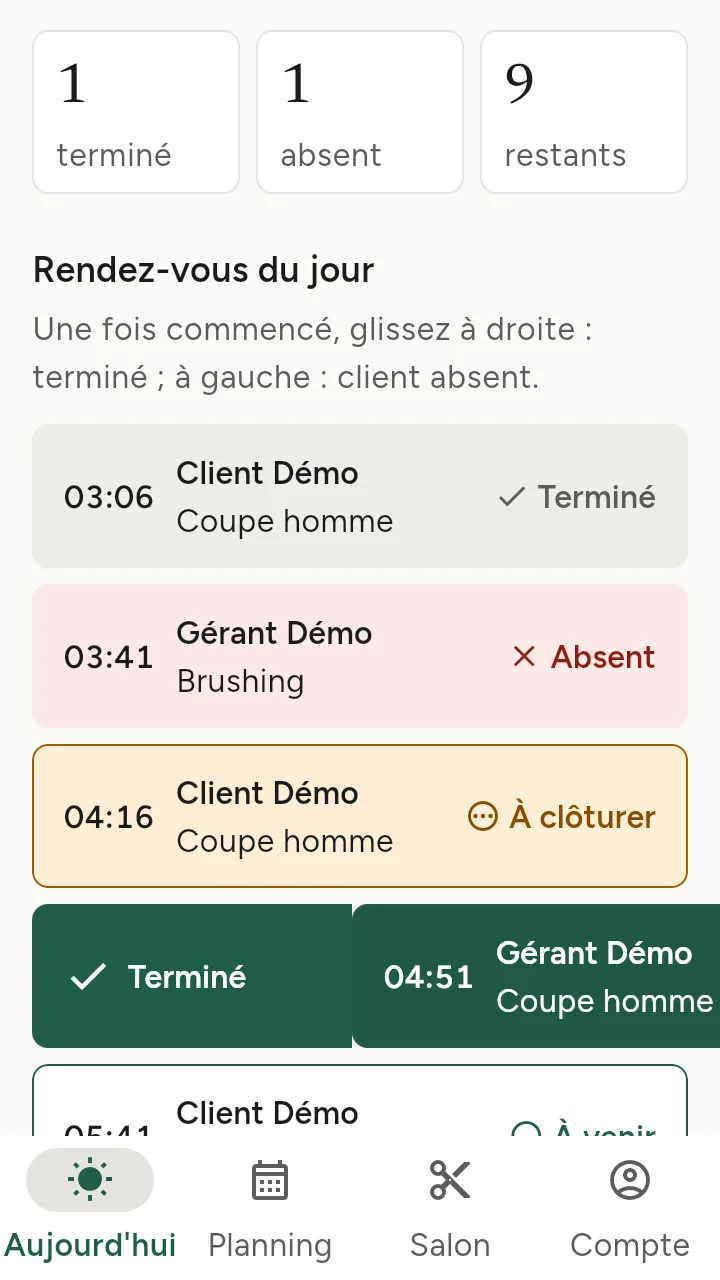
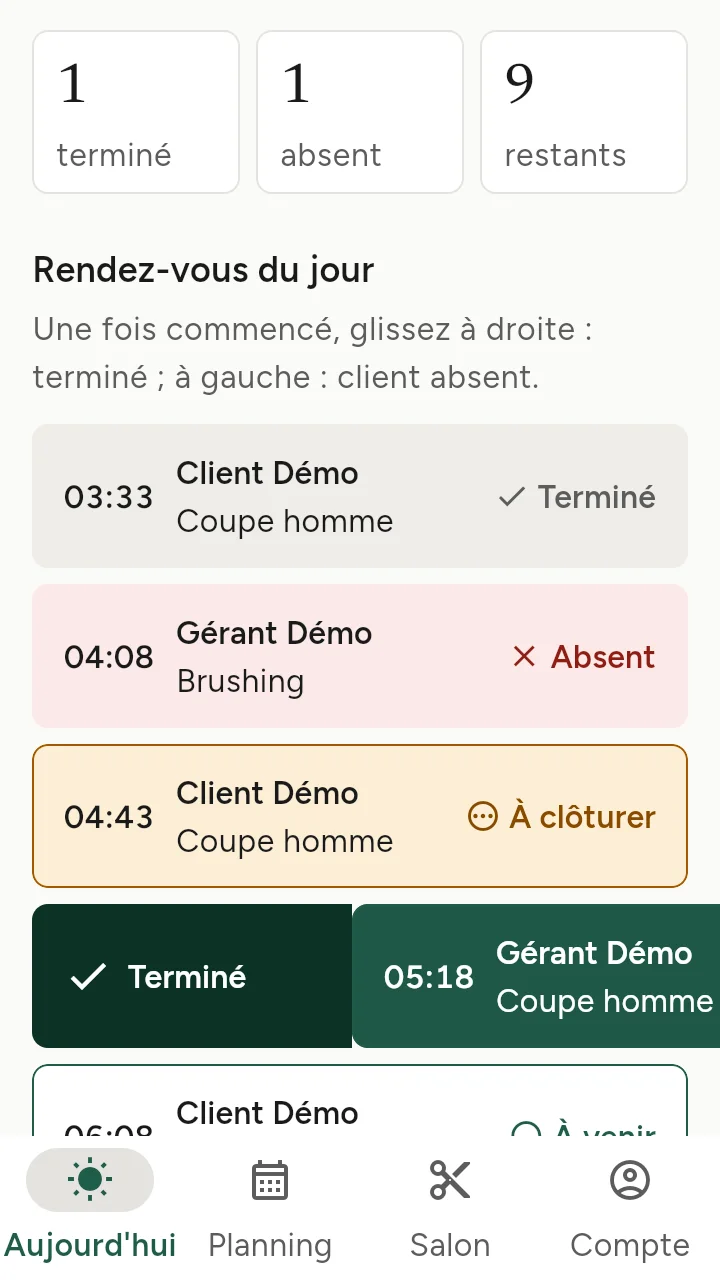
feat: app pro, fonds des gestes en couleurs d'action foncées (#64)
Vert foncé plein (#0B3325) pour « Terminé », rouge foncé plein (#7A1A10)
pour « Client absent », texte blanc (13,9:1 et 10,6:1), distincts des fonds
des états ; contrastes et distinction vérifiés par charte_test. Captures
des deux gestes à mi-course (charte §10).

diff --git a/pro/lib/ui/charte.dart b/pro/lib/ui/charte.dart
@@ -24,8 +24,9 @@ abstract final class Couleurs {
 //   en cours : fond accent, texte blanc ;
 //   à clôturer : fond ambre pâle, bordure et libellé ambre foncé ;
 //   terminé : fond gris clair, texte et libellé secondaire ;
-//   absent : fond rose pâle, libellé rouge foncé (fond du geste « Client
-//   absent », texte blanc).
+//   absent : fond rose pâle, libellé rouge foncé.
+// Gestes : vert foncé plein (« Terminé ») et rouge foncé plein (« Client
+// absent »), texte blanc.
 abstract final class CouleursStatut {
   static const termineFond = Color(0xFFEFEDE8);
   static const absentFond = Color(0xFFFBEAE8);
@@ -33,6 +34,11 @@ abstract final class CouleursStatut {
   static const aCloturerFond = Color(0xFFFCEFD6);
   static const aCloturerBordure = Color(0xFFA35A00);
   static const aCloturerTexte = Color(0xFF8A4B00);
+  // Fonds révélés par les gestes : couleurs d'action pleines et foncées,
+  // distinctes des fonds des états (le vert, plus foncé que l'accent du
+  // rendez-vous en cours), texte et icône blancs.
+  static const gesteTermine = Color(0xFF0B3325);
+  static const gesteAbsent = Color(0xFF7A1A10);
 }
 
 // Échelle typographique : 16 / 18 / 22 / 28 / 36 px, interligne 1,5.

diff --git a/pro/test/ui/charte_test.dart b/pro/test/ui/charte_test.dart
@@ -100,6 +100,19 @@ void main() {
         4.5,
       ),
       ('texte / à clôturer', Couleurs.texte, CouleursStatut.aCloturerFond, 4.5),
+      // Fonds révélés par les gestes, texte blanc.
+      (
+        'blanc / geste Terminé',
+        Couleurs.surface,
+        CouleursStatut.gesteTermine,
+        4.5,
+      ),
+      (
+        'blanc / geste Client absent',
+        Couleurs.surface,
+        CouleursStatut.gesteAbsent,
+        4.5,
+      ),
       (
         'ambre à clôturer / fond à clôturer',
         CouleursStatut.aCloturerTexte,
@@ -194,6 +207,13 @@ void main() {
         {for (final s in styles) s.fond}.length,
         EtatRendezVous.values.length,
       );
+      // Les fonds des gestes ne sont celui d'aucun état.
+      for (final geste in [
+        CouleursStatut.gesteTermine,
+        CouleursStatut.gesteAbsent,
+      ]) {
+        expect({for (final s in styles) s.fond}, isNot(contains(geste)));
+      }
       expect(
         {for (final e in EtatRendezVous.values) e.libelle},
         {'À venir', 'En cours', 'À clôturer', 'Terminé', 'Absent'},

diff --git a/pro/lib/features/aujourdhui/carte_glissable.dart b/pro/lib/features/aujourdhui/carte_glissable.dart
@@ -156,7 +156,9 @@ class _CarteGlissableState extends State<CarteGlissable>
     // Fond révélé par le geste (et par l'indice), texte blanc.
     Widget fond(bool termine) => Container(
       decoration: BoxDecoration(
-        color: termine ? Couleurs.accent : CouleursStatut.absentTexte,
+        color: termine
+            ? CouleursStatut.gesteTermine
+            : CouleursStatut.gesteAbsent,
         borderRadius: BorderRadius.circular(rayon),
       ),
       padding: const EdgeInsets.symmetric(horizontal: Espaces.s4),

diff --git a/docs/charte-graphique.md b/docs/charte-graphique.md
@@ -254,8 +254,10 @@ au site :
   | Absent | `#FBEAE8` | `#8F1D13` (7,7:1) |
 
 - **Gestes** (« Aujourd'hui ») : sur un rendez-vous commencé, glisser à
-  droite révèle « Terminé » sur fond `accent`, à gauche « Client absent » sur
-  fond `#8F1D13`, texte blanc. Petite vibration au seuil, vibration de
+  droite révèle une coche et « Terminé » sur un vert foncé plein `#0B3325`
+  (blanc 13,9:1), à gauche « Client absent » sur un rouge foncé plein
+  `#7A1A10` (blanc 10,6:1) : couleurs d'action, distinctes des fonds des
+  états (le vert est plus foncé que l'`accent` du rendez-vous en cours). Petite vibration au seuil, vibration de
   confirmation au geste. Message bref « Annuler » : l'enregistrement part au
   bout de 5 s, ou tout de suite si l'on quitte l'onglet ou l'app. Au premier
   usage (une fois par lancement), la première carte glissable glisse un peu
@@ -364,12 +366,16 @@ de bout en bout du site). « Avant » : les captures de #41.
 | Compte (gérant et coiffeur) | ![Compte (gérant et coiffeur) avant](captures/app-pro/navigateur/05b-menu-compte-apres.webp) | ![Compte (gérant et coiffeur) après](captures/app-pro/lot1/11-compte-gerant-et-coiffeur-lot1.webp) |
 
 Les cinq états, avec les rendez-vous de `supabase/demo/gestes-locaux.sql`
-(terminé, absent, à clôturer, en cours, à venir), et un geste vers la droite
-à mi-course (relâché sans rien enregistrer) :
+(terminé, absent, à clôturer, en cours, à venir), et les deux gestes à
+mi-course (relâchés sans rien enregistrer) :
 
-| Aujourd'hui | Rendez-vous du jour | Geste « Terminé » | Planning |
-| --- | --- | --- | --- |
-| ![Aujourd'hui, états](captures/app-pro/lot1/12-aujourdhui-etats-lot1.webp) | ![Rendez-vous du jour, cinq états](captures/app-pro/lot1/13-aujourdhui-liste-etats-lot1.webp) | ![Geste vers la droite](captures/app-pro/lot1/14-geste-termine-lot1.webp) | ![Planning, cinq états](captures/app-pro/lot1/15-planning-etats-lot1.webp) |
+| Aujourd'hui | Rendez-vous du jour | Planning |
+| --- | --- | --- |
+| ![Aujourd'hui, états](captures/app-pro/lot1/12-aujourdhui-etats-lot1.webp) | ![Rendez-vous du jour, cinq états](captures/app-pro/lot1/13-aujourdhui-liste-etats-lot1.webp) | ![Planning, cinq états](captures/app-pro/lot1/15-planning-etats-lot1.webp) |
+
+| Geste vers la droite : « Terminé » | Geste vers la gauche : « Client absent » |
+| --- | --- |
+| ![Geste vers la droite](captures/app-pro/lot1/14-geste-termine-lot1.webp) | ![Geste vers la gauche](captures/app-pro/lot1/14b-geste-absent-lot1.webp) |
 
 ## 11. Formulaires de l'app pro (#41)
 
